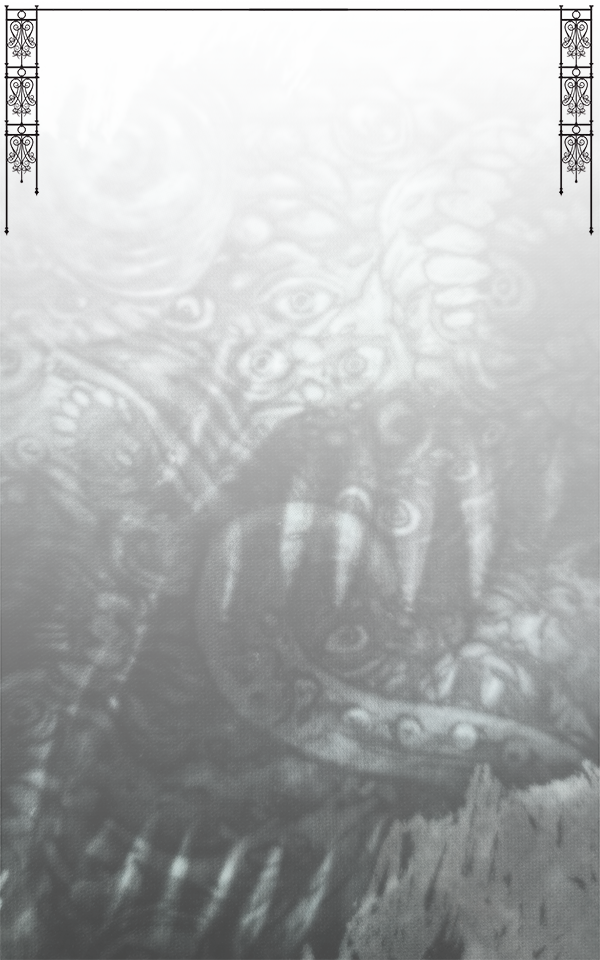
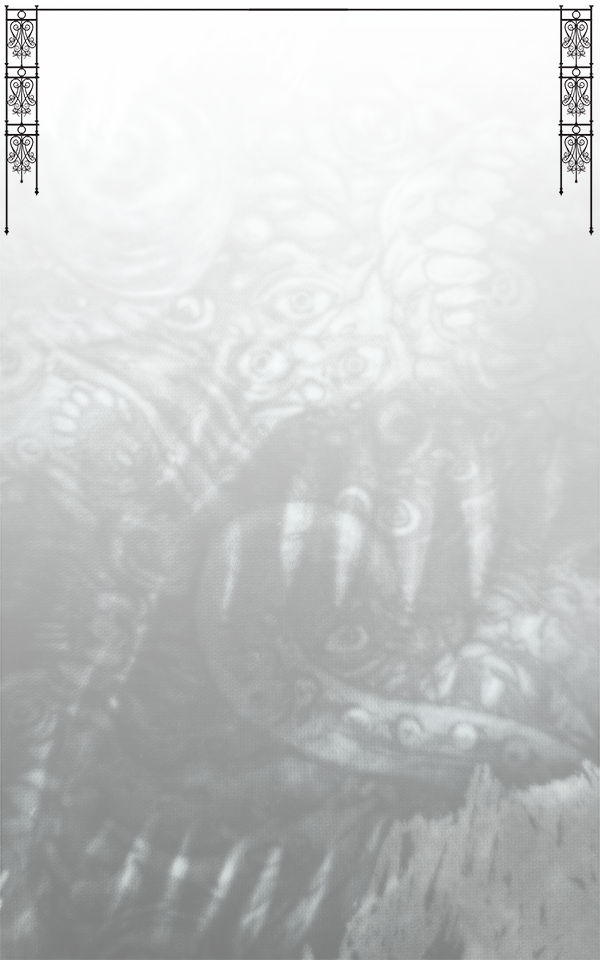
COmplted otherworld smaple carda dn coloured templates

diff --git a/wireframes/draft2/card.html b/wireframes/draft2/card.html
@@ -9,12 +9,13 @@
 :root {
   --card-width: 335px; 
 }
-
 body {
   background: #2b2b2b;
   display: flex;
   justify-content: center;
   align-items: center;
+  flex-wrap: wrap;  /* ← allows items to go to a new line */
+  gap: 1rem;        /* optional, adds spacing between wrapped items */
   height: 100vh;
 }
 
@@ -48,10 +49,10 @@ body {
   width: var(--card-width);
   aspect-ratio: 55/88;
 
-  background-color: #bebebe; /* parchment tan, shows through PNG transparency */
+  background-color: #dbdbdb; /* parchment tan, shows through PNG transparency */
   border: 8px solid #1d1d1d;
   border-radius: 12px;
-  box-shadow: 0 8px 25px rgba(0,0,0,0.7);
+  box-shadow: 0 8px 25px rgba(0,0,0,0.3);
   display: flex;
   flex-direction: column;
   overflow: hidden;
@@ -268,6 +269,15 @@ body {
   background: transparent; /* default = off */
 }
 
+
+.otherworldcardfront .center-panel h1,
+.otherworldcardfront .center-panel h2,
+.otherworldcardfront .center-panel h3 {
+  text-align: center;
+  margin: 0.4rem 0; /* much smaller than default */
+}
+
+
 /* different color variants */
 .otherworldcardfront.blue::after {
   background: rgba(0, 150, 255, 0.3);
@@ -295,8 +305,16 @@ body {
 
   box-shadow: 0 4px 12px rgba(0, 0, 0, 0.6); /* drop shadow */
   z-index: 2; /* above overlay */
+  text-align: center; /* ✅ centers all text inside */
 }
 
+.otherworldcardfront .center-panel p {
+  font-size: 1.05rem;
+  text-align: justify;  /* paragraphs justified */
+  margin: 0.25rem 0;   /* shrink gap */
+  padding: 0.1rem 1.3rem;     /* top/bottom = 0.5rem, left/right = 2rem */
+  font-family:'Times New Roman', Times, serif;
+}
 
 </style>
 </head>
@@ -381,23 +399,50 @@ body {
 <div class="otherworldcardfront blue">
   <div class="center-panel">
     <!-- You can put text, icons, or keep it empty -->
+     <h2>Abyss</h2>
+     <p>The caverns split. Make a <b>Luck(+1) check</b> and consult the chart below:</p>
+     <p>Successes:<br>0-1: Move to the Black Cave.<br>2: Move to The Dreamlands.<br>
+      3+: You enter a dark temple. Pass a <b>Luck (-1) check</b> to draw a Unique Item. </p>
+    
+     <h2>Celano</h2>
+     <p>The huge book opens nmoiselessly at your approach. If you choose you may read it, in which case you must pass a <b>Fight(-1)[2] check</b> to defeat its guardian. If you do, draw 3 Spells and keep 2 of them. If you fail, lose 3 stamina. </p>
+     <h2>Other</h2>
+     <p>A monster appears!</p>
   </div>
 </div>
 
 <div class="otherworldcardfront green">
   <div class="center-panel">
     <!-- You can put text, icons, or keep it empty -->
+    <h2>The Dreamlands</h2>
+    <p>You encounter the talking cats of Ulthar. Pass a <b>Will (+0) check</b> to draw 1 Spell.</p>
+    <h2>City Of The Great Race</h2>
+    <p>Pass a <b>Luck (-1) check</b> to find something useful among the incomprehensible artifacts. If so, draw 1 Unique Item.</p>
+    <h2>Other</h2>
+    <p>A glimpse of home give you hope. Gain 1 Sanity.</p>
   </div>
 </div>
 
 <div class="otherworldcardfront red">
   <div class="center-panel">
     <!-- You can put text, icons, or keep it empty -->
+     <h2>R'lyeh</h2>
+     <p>Pass a <b>Speed (-1) check</b> or you slip and slide down a barnacled surface, slashing your skin to ribbons. Lose 3 Stamina</p>
+     <h2>Abyss</h2>
+     <p>Pass a <b>Luck (-1) check</b> or you are faced with an enourmouse mountain with a strange symbol carved into it, as if by the claw of a gigantic creature. The world swims around you and you lose 3 Sanity.</p>
+     <h2>Other</h2>
+     <p>The obsidian door refuses to open. Pass a <b>Fight (-1) check</b> or stay here next turn struggling with it. </p>
   </div>
 </div>
 
 <div class="otherworldcardfront yellow">
   <div class="center-panel">
+    <h2>R'lyeh</h2>
+    <p>The stink of this place is unbearable. Pass a <b>Will (-1) check</b> or lose 1 Stamina, 1 Sanity and your lunch.</p>
+    <h2>City Of The Great Race</h2>
+    <p>In a flash of insight, you realise the purpose of the bladed artifact. Shivering, you put it back where you found it. Lose 1 Sanity but gain 1 Clue token.</p>
+    <h2>Other</h2>
+    <p>Time and space bend around you. Make a <b>Luck (-1) check</b>. If you pass, return to Arkham. If you fail, stay here next turn.</p>
     <!-- You can put text, icons, or keep it empty -->
   </div>
 </div>